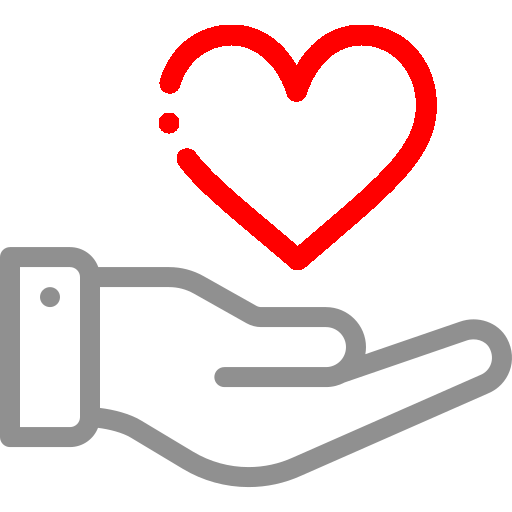
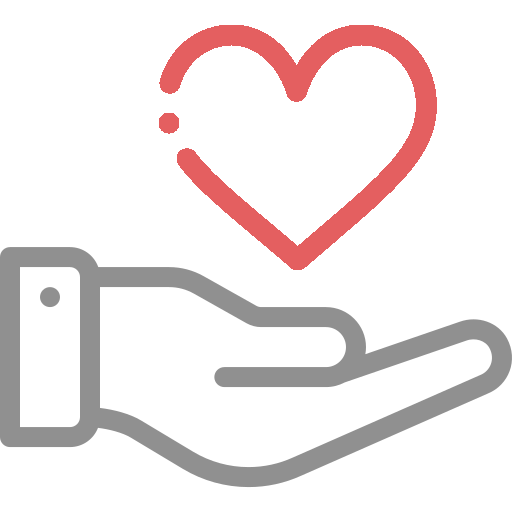
Modal styling changes, color adjustments

Changed region(s): [[0.3125, 0.0312, 0.875, 0.5312], [0.3125, 0.2188, 0.375, 0.2812]]

diff --git a/index.html b/index.html
@@ -36,22 +36,38 @@
     <header class="desktop">
       <div class="buttons">
         <div class="button_container">
-          <a href="#"><img src="images/info.png" alt="About" /></a>
+          <a href="#intro" class="modal_open" rel="modal:open"
+            ><img src="images/info.png" alt="About"
+          /></a>
           <a href="#"><img src="images/donate.png" alt="Donate" /></a>
         </div>
       </div>
       <img class="logo" src="images/logo.png" alt="Hunt Showdown Logo" />
       <h1>Hunt: Showdown - The Story</h1>
-      <p id="intro" class="modal">
-        Below you'll find all of the collected lore and story elements of the
-        universe in <a href="https://www.huntshowdown.com/">Hunt: Showdown</a>,
-        a videogame developed and published for PC/Console by
-        <a href="https://www.crytek.com/">Crytek</a>. Since the game's 1.0
-        release in 2018, the story has slowly been revealed through in-game
-        content and events. This project is open-sourced any contribution would
-        be highly appreciated. If you want to support me feel free to
-        <a href="#">buy me a coffee!</a>
-      </p>
+      <div id="intro" class="modal">
+        <p>
+          Below you'll find all of the collected lore and story elements of the
+          universe in
+          <a href="https://www.huntshowdown.com/">Hunt: Showdown</a>, a
+          videogame developed and published for PC/Console by
+          <a href="https://www.crytek.com/">Crytek</a>.
+        </p>
+        <p>
+          Since the game's 1.0 release in 2018, the story has slowly been
+          revealed through in-game content and events. This project is
+          <a
+            href="https://github.com/zuffdaddy/hunt-showdown-the-story"
+            title="Github Link"
+            >open-sourced</a
+          >
+          any contribution would be highly appreciated.
+        </p>
+        <p>
+          If you want to support me feel free to
+          <a href="#">buy me a coffee!</a>
+        </p>
+        <p><a class="modal_close" href="#" rel="modal:close"><img src="images/close.png" alt="Close"/></p>
+      </div>
       <p>
         <a class="modal_open" href="#intro" rel="modal:open"
           ><img src="images/info.png" alt="About"
@@ -65,9 +81,10 @@
       <div class="chapter_header">
         <h2>The Prelude</h2>
         <div id="source1" class="modal">
-          Sourced from <a href="#">Hunt: Showdown Wiki</a>,
+          <p>Sourced from <a href="#">Hunt: Showdown Wiki</a>,
           <a href="#">Hunt Showdown Wikipedia</a>, and in-game content from
-          Codex Imperium.
+          Codex Imperium.</p>
+          <p><a class="modal_close" href="#" rel="modal:close"><img src="images/close.png" alt="Close"/></a>
         </div>
         <span
           ><a class="modal_open" href="#source1" rel="modal:open"

diff --git a/css/main.css b/css/main.css
@@ -8,7 +8,7 @@ body {
 }
 
 a {
-  color: #b53536;
+  color: #e45f60;
 }
 
 a:hover {
@@ -66,9 +66,34 @@ em {
   letter-spacing: 1px;
   font-size: 1.2em;
   font-style: italic;
-  color: #909090;
+  color: #ddd;
   background-color: #1c1c1c;
-  padding: 1em;
+  border: 1px solid #f5dea7;
+  border-radius: 0;
+  padding: 0.8em;
+}
+
+.modal p {
+  margin: 0 0 1em 0;
+}
+
+.modal p:last-of-type {
+  margin: 0;
+}
+
+.modal_close {
+  display: flex;
+  justify-content: center;
+  width: 100%;
+  opacity: 0.8;
+}
+
+.modal_close:hover {
+  opacity: 1;
+}
+
+.modal_close img {
+  max-height: 25px;
 }
 
 header {
